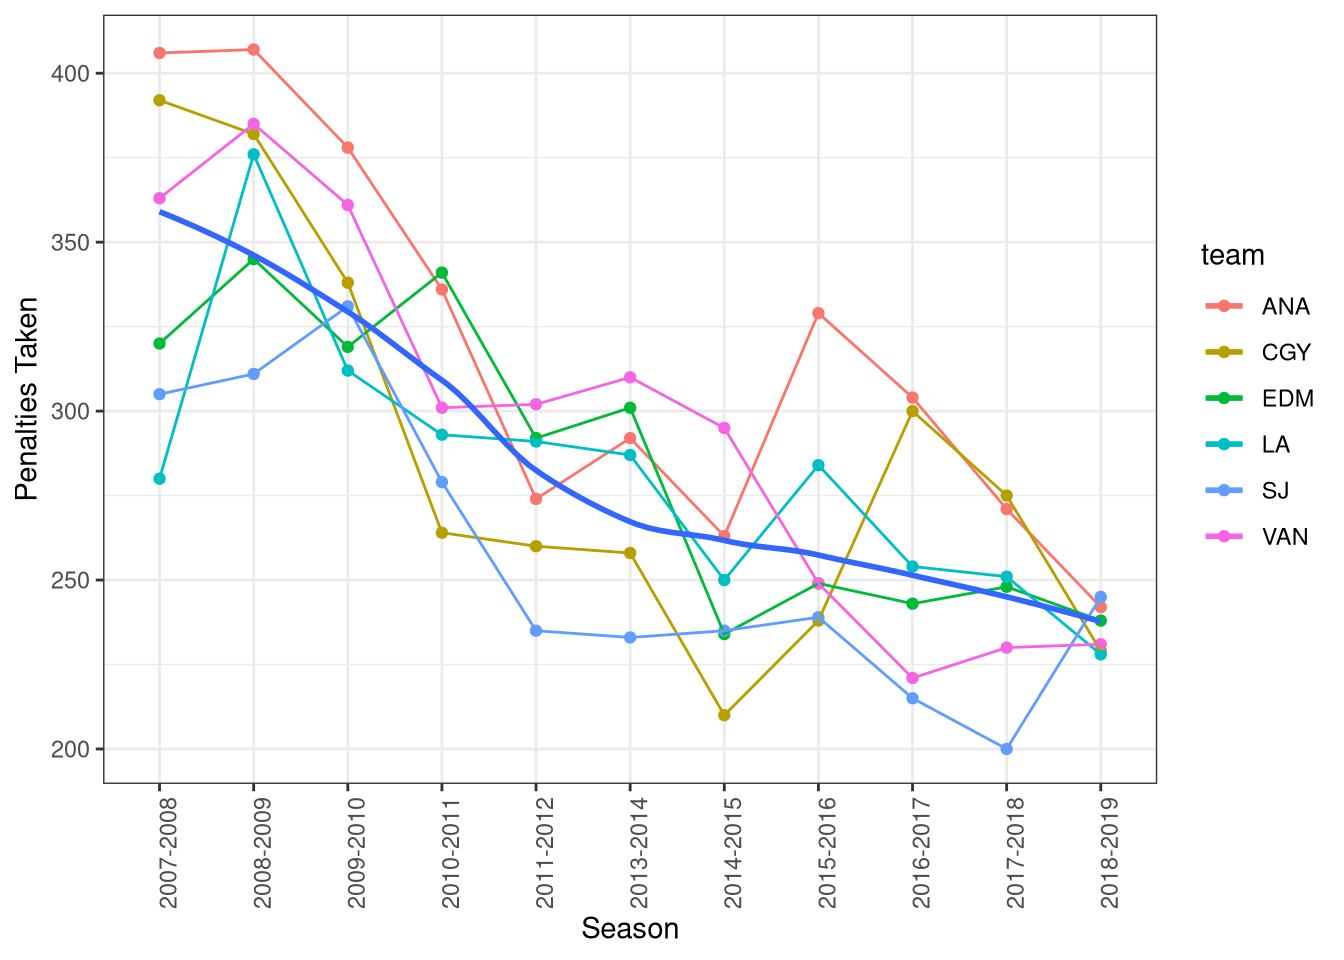
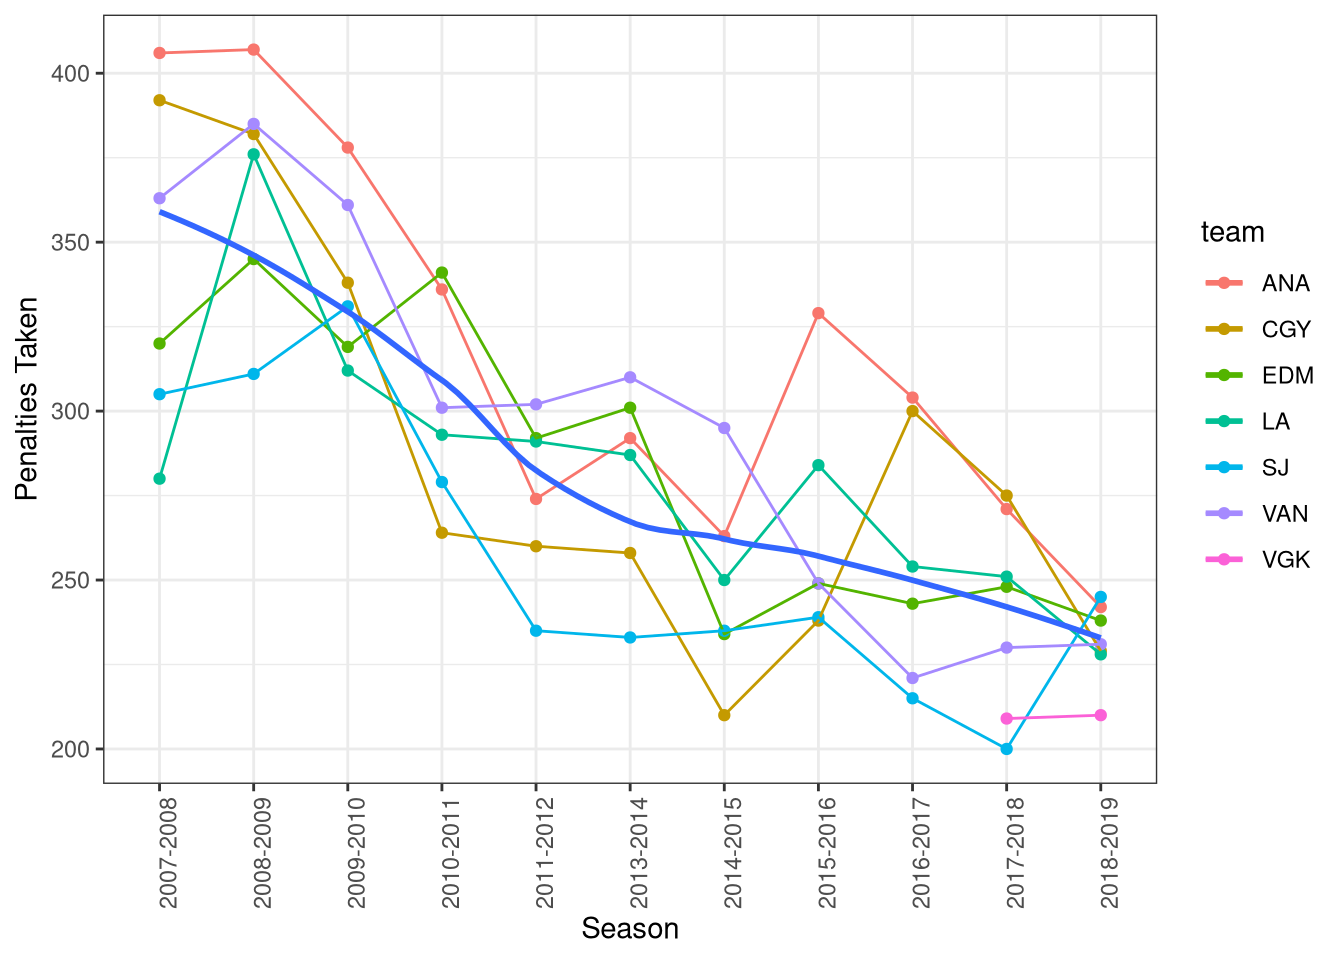
added some text

diff --git a/docs/Final-Project/NHL-Data.html b/docs/Final-Project/NHL-Data.html
@@ -147,6 +147,7 @@ pre > code.sourceCode > span > a:first-child::before { text-decoration: underlin
    
   <ul>
   <li><a href="#loading-the-necessary-packages" id="toc-loading-the-necessary-packages" class="nav-link active" data-scroll-target="#loading-the-necessary-packages">Loading the Necessary Packages</a></li>
+  <li><a href="#introduction" id="toc-introduction" class="nav-link" data-scroll-target="#introduction">Introduction</a></li>
   <li><a href="#exploring-some-data-teams" id="toc-exploring-some-data-teams" class="nav-link" data-scroll-target="#exploring-some-data-teams">Exploring some data <code>teams</code></a></li>
   <li><a href="#exploring-some-data-on-skaters" id="toc-exploring-some-data-on-skaters" class="nav-link" data-scroll-target="#exploring-some-data-on-skaters">Exploring some data on <code>skaters</code></a></li>
   <li><a href="#exploring-some-data-on-goalies" id="toc-exploring-some-data-on-goalies" class="nav-link" data-scroll-target="#exploring-some-data-on-goalies">Exploring some data on <code>goalies</code></a></li>
@@ -204,11 +205,15 @@ pre > code.sourceCode > span > a:first-child::before { text-decoration: underlin
 <span id="cb1-4"><a href="#cb1-4" aria-hidden="true" tabindex="-1"></a><span class="fu">library</span>(tidyr)</span>
 <span id="cb1-5"><a href="#cb1-5" aria-hidden="true" tabindex="-1"></a><span class="fu">library</span>(ggplot2)</span></code><button title="Copy to Clipboard" class="code-copy-button"><i class="bi"></i></button></pre></div>
 </div>
+</section>
+<section id="introduction" class="level2">
+<h2 class="anchored" data-anchor-id="introduction">Introduction</h2>
+<p>This project will explore some of the 5v5 data on NHL teams from the 2007-2008 season to the 2018-2019 season. Specifically 5v5 scoring over these years. It will look at data on skaters, goalies and teams as a whole. The division alignment has changed within this time frame so the teams will be split up into their current divisions (This is for readability more than comparing separate divisions).</p>
 <div class="cell">
 <details>
 <summary>Code</summary>
 <div class="sourceCode cell-code" id="cb2"><pre class="sourceCode r code-with-copy"><code class="sourceCode r"><span id="cb2-1"><a href="#cb2-1" aria-hidden="true" tabindex="-1"></a>West_conf <span class="ot">&lt;-</span> teams <span class="sc">%&gt;%</span></span>
-<span id="cb2-2"><a href="#cb2-2" aria-hidden="true" tabindex="-1"></a>  <span class="fu">filter</span>(team <span class="sc">%in%</span> <span class="fu">c</span>(<span class="st">"ANA"</span>, <span class="st">"ARI"</span>, <span class="st">"CGY"</span>, <span class="st">"CHI"</span>, <span class="st">"COL"</span>, <span class="st">"DAL"</span>, <span class="st">"EDM"</span>, <span class="st">"LA"</span>, <span class="st">"MIN"</span>, <span class="st">"NSH"</span>, <span class="st">"SJ"</span>, <span class="st">"STL"</span>, <span class="st">"VAN"</span>, <span class="st">"ATL"</span>, <span class="st">"WPG"</span>))</span>
+<span id="cb2-2"><a href="#cb2-2" aria-hidden="true" tabindex="-1"></a>  <span class="fu">filter</span>(team <span class="sc">%in%</span> <span class="fu">c</span>(<span class="st">"ANA"</span>, <span class="st">"ARI"</span>, <span class="st">"CGY"</span>, <span class="st">"CHI"</span>, <span class="st">"COL"</span>, <span class="st">"DAL"</span>, <span class="st">"EDM"</span>, <span class="st">"LA"</span>, <span class="st">"MIN"</span>, <span class="st">"NSH"</span>, <span class="st">"SJ"</span>, <span class="st">"STL"</span>, <span class="st">"VAN"</span>, <span class="st">"ATL"</span>, <span class="st">"WPG"</span>, <span class="st">"VGK"</span>))</span>
 <span id="cb2-3"><a href="#cb2-3" aria-hidden="true" tabindex="-1"></a></span>
 <span id="cb2-4"><a href="#cb2-4" aria-hidden="true" tabindex="-1"></a>East_conf <span class="ot">&lt;-</span> teams <span class="sc">%&gt;%</span></span>
 <span id="cb2-5"><a href="#cb2-5" aria-hidden="true" tabindex="-1"></a>  <span class="fu">filter</span>(team <span class="sc">%in%</span> <span class="fu">c</span>(<span class="st">"BOS"</span>, <span class="st">"BUF"</span>, <span class="st">"CAR"</span>, <span class="st">"CBJ"</span>, <span class="st">"DET"</span>, <span class="st">"FLA"</span>, <span class="st">"MTL"</span>, <span class="st">"NJ"</span>, <span class="st">"NYI"</span>, <span class="st">"NYR"</span>, <span class="st">"OTT"</span>, <span class="st">"PHI"</span>, <span class="st">"PIT"</span>, <span class="st">"TB"</span>, <span class="st">"TOR"</span>, <span class="st">"WSH"</span>))</span>
@@ -223,7 +228,7 @@ pre > code.sourceCode > span > a:first-child::before { text-decoration: underlin
 <span id="cb2-14"><a href="#cb2-14" aria-hidden="true" tabindex="-1"></a>  <span class="fu">filter</span>(team <span class="sc">%in%</span> <span class="fu">c</span>(<span class="st">"ARI"</span>, <span class="st">"CHI"</span>, <span class="st">"COL"</span>, <span class="st">"DAL"</span>, <span class="st">"MIN"</span>, <span class="st">"NSH"</span>, <span class="st">"STL"</span>, <span class="st">"ATL"</span>, <span class="st">"WPG"</span>))</span>
 <span id="cb2-15"><a href="#cb2-15" aria-hidden="true" tabindex="-1"></a></span>
 <span id="cb2-16"><a href="#cb2-16" aria-hidden="true" tabindex="-1"></a>Pacific_div <span class="ot">&lt;-</span> West_conf <span class="sc">%&gt;%</span></span>
-<span id="cb2-17"><a href="#cb2-17" aria-hidden="true" tabindex="-1"></a>  <span class="fu">filter</span>(team <span class="sc">%in%</span> <span class="fu">c</span>(<span class="st">"ANA"</span>, <span class="st">"CGY"</span>, <span class="st">"EDM"</span>, <span class="st">"LA"</span>, <span class="st">"SJ"</span>, <span class="st">"VAN"</span>))</span></code><button title="Copy to Clipboard" class="code-copy-button"><i class="bi"></i></button></pre></div>
+<span id="cb2-17"><a href="#cb2-17" aria-hidden="true" tabindex="-1"></a>  <span class="fu">filter</span>(team <span class="sc">%in%</span> <span class="fu">c</span>(<span class="st">"ANA"</span>, <span class="st">"CGY"</span>, <span class="st">"EDM"</span>, <span class="st">"LA"</span>, <span class="st">"SJ"</span>, <span class="st">"VAN"</span>, <span class="st">"VGK"</span>))</span></code><button title="Copy to Clipboard" class="code-copy-button"><i class="bi"></i></button></pre></div>
 </details>
 </div>
 </section>
@@ -265,6 +270,7 @@ $ pdo       &lt;dbl&gt; 100.93, 100.82, 100.98, 100.18, 99.65, 101.60, 102.45, 1
 </div>
 </div>
 <p>There are 28 variables in the teams data set:</p>
+<p>Note: Corsi stat in hockey is Shot attempts</p>
 <ol type="1">
 <li><p><code>team</code>: Team name</p></li>
 <li><p><code>season</code>: Season</p></li>
@@ -295,6 +301,7 @@ $ pdo       &lt;dbl&gt; 100.93, 100.82, 100.98, 100.18, 99.65, 101.60, 102.45, 1
 <li><p><code>sv_pct</code>: Save percentage</p></li>
 <li><p><code>pdo</code>: Just Win Baby</p></li>
 </ol>
+<p>Since we are exploring 5v5, let’s see how important it is by looking at each teams goals for.</p>
 <div class="cell">
 <details>
 <summary>Code</summary>
@@ -375,6 +382,7 @@ $ pdo       &lt;dbl&gt; 100.93, 100.82, 100.98, 100.18, 99.65, 101.60, 102.45, 1
 </div>
 </div>
 </div>
+<p>So it looks like there was some fluctuation, but on average teams are scoring slightly more on 5v5 now than they used to.</p>
 </section>
 <section id="exploring-some-data-on-skaters" class="level2">
 <h2 class="anchored" data-anchor-id="exploring-some-data-on-skaters">Exploring some data on <code>skaters</code></h2>
@@ -434,6 +442,7 @@ $ cf_pct_qoc  &lt;dbl&gt; 50.10, 48.87, 49.31, 49.94, 50.02, 50.12, 50.19, 50.72
 </div>
 </div>
 <p>There are 48 variables in the skaters data set:</p>
+<p>Note: Corsi stat in hockey is Shot attempts</p>
 <ol type="1">
 <li><p><code>player</code>: Player name</p></li>
 <li><p><code>season</code>: Season</p></li>
@@ -484,6 +493,7 @@ $ cf_pct_qoc  &lt;dbl&gt; 50.10, 48.87, 49.31, 49.94, 50.02, 50.12, 50.19, 50.72
 <li><p><code>toi_pct_qoc</code>: Percentage of team’s total time on ice played by player, weighted by quality of opponents</p></li>
 <li><p><code>cf_pct_qoc</code>: Corsi for percentage weighted by quality of player’s opponents</p></li>
 </ol>
+<p>It would be nice to see if the individual player stats reflect this slight increase in production.</p>
 <div class="cell">
 <details>
 <summary>Code</summary>
@@ -523,7 +533,7 @@ $ cf_pct_qoc  &lt;dbl&gt; 50.10, 48.87, 49.31, 49.94, 50.02, 50.12, 50.19, 50.72
 <div id="fig-6" class="quarto-figure quarto-figure-center anchored">
 <figure class="figure">
 <p><img src="NHL-Data_files/figure-html/fig-6-1.png" class="img-fluid figure-img" width="672"></p>
-<figcaption class="figure-caption">Figure&nbsp;6: Number of players with atleast 20% shooting percentage</figcaption>
+<figcaption class="figure-caption">Figure&nbsp;6: Number of players with at least 20% shooting percentage</figcaption>
 </figure>
 </div>
 </div>
@@ -545,11 +555,12 @@ $ cf_pct_qoc  &lt;dbl&gt; 50.10, 48.87, 49.31, 49.94, 50.02, 50.12, 50.19, 50.72
 <div id="fig-7" class="quarto-figure quarto-figure-center anchored">
 <figure class="figure">
 <p><img src="NHL-Data_files/figure-html/fig-7-1.png" class="img-fluid figure-img" width="672"></p>
-<figcaption class="figure-caption">Figure&nbsp;7: Number of players with atleast 10% shooting percentage</figcaption>
+<figcaption class="figure-caption">Figure&nbsp;7: Number of players with at least 10% shooting percentage</figcaption>
 </figure>
 </div>
 </div>
 </div>
+<p>Interesting, the amount of players with at least 50 points seems to be trending up in the last couple of years but is not more than some of the years in the past. Also shooting percentage has stayed relatively consistent, but at 20% there were some spikes.</p>
 </section>
 <section id="exploring-some-data-on-goalies" class="level2">
 <h2 class="anchored" data-anchor-id="exploring-some-data-on-goalies">Exploring some data on <code>goalies</code></h2>
@@ -640,7 +651,7 @@ $ gsaa     &lt;dbl&gt; 10.93, 1.05, -3.57, -1.00, -3.92, 3.31, -1.23, 0.12, 0.65
 <div id="fig-9" class="quarto-figure quarto-figure-center anchored">
 <figure class="figure">
 <p><img src="NHL-Data_files/figure-html/fig-9-1.png" class="img-fluid figure-img" width="672"></p>
-<figcaption class="figure-caption">Figure&nbsp;9: Number of who faced</figcaption>
+<figcaption class="figure-caption">Figure&nbsp;9: Number of who goalies faced an average of at least 20 shots a game</figcaption>
 </figure>
 </div>
 </div>
